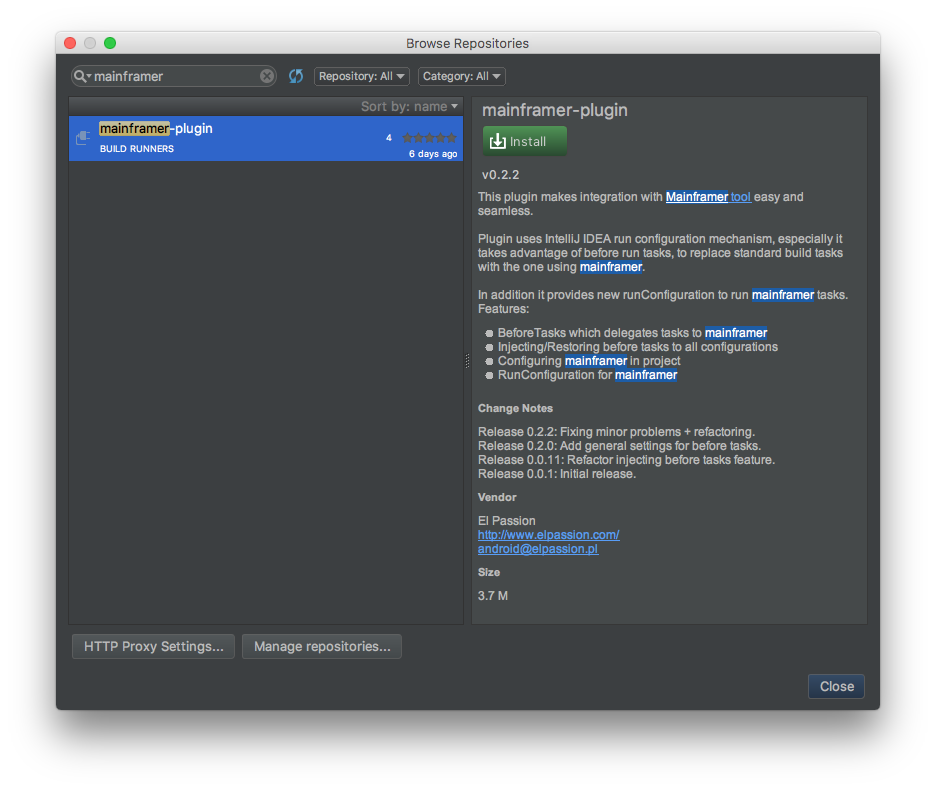
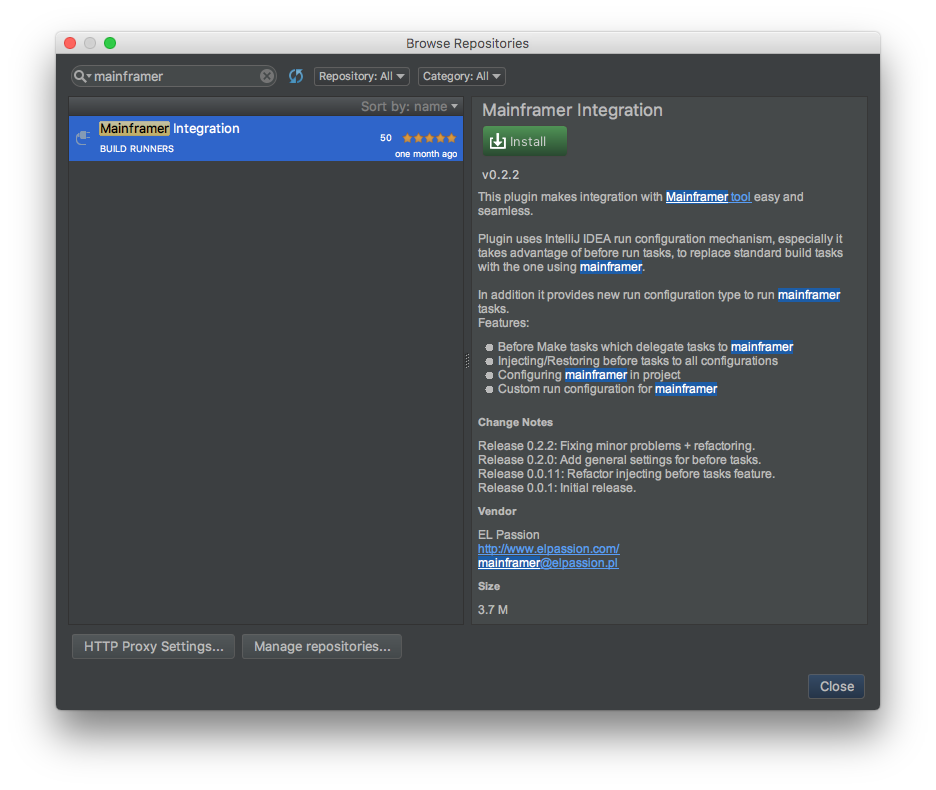
#140 Update readme after plugin rename

diff --git a/README.md b/README.md
@@ -1,4 +1,4 @@
-# mainframer-intellij-plugin [![Build Status](https://travis-ci.org/elpassion/mainframer-intellij-plugin.svg?branch=develop)](https://travis-ci.org/elpassion/mainframer-intellij-plugin) [![Stories in Ready](https://badge.waffle.io/elpassion/mainframer-intelij-plugin.svg?label=ready&title=Ready)](http://waffle.io/elpassion/mainframer-intelij-plugin) [![Stories in progress](https://badge.waffle.io/elpassion/mainframer-intelij-plugin.svg?label=in%20progress&title=In%20Progress)](http://waffle.io/elpassion/mainframer-intelij-plugin) [![Stories in CR](https://badge.waffle.io/elpassion/mainframer-intelij-plugin.svg?label=cr&title=CR)](http://waffle.io/elpassion/mainframer-intelij-plugin)
+# Mainframer Integration [![Build Status](https://travis-ci.org/elpassion/mainframer-intellij-plugin.svg?branch=develop)](https://travis-ci.org/elpassion/mainframer-intellij-plugin) [![Stories in Ready](https://badge.waffle.io/elpassion/mainframer-intelij-plugin.svg?label=ready&title=Ready)](http://waffle.io/elpassion/mainframer-intelij-plugin) [![Stories in progress](https://badge.waffle.io/elpassion/mainframer-intelij-plugin.svg?label=in%20progress&title=In%20Progress)](http://waffle.io/elpassion/mainframer-intelij-plugin) [![Stories in CR](https://badge.waffle.io/elpassion/mainframer-intelij-plugin.svg?label=cr&title=CR)](http://waffle.io/elpassion/mainframer-intelij-plugin)
 An IntelliJ IDEA plugin for [Mainframer](https://github.com/gojuno/mainframer).
 
 About
@@ -16,31 +16,31 @@ Installation
 ------------
 
 1. Open plugins window (with proper action or through *Preferences > Plugins*).
-2. Find **mainframer-plugin** in JetBrains plugins repository.
+2. Find **Mainframer Integration** in JetBrains plugins repository.
 3. Install plugin and restart IDE to apply changes.
 
 **Alternative way:**
 
-If you want to install a specific version of the plugin visit [mainframer-plugin website](https://plugins.jetbrains.com/idea/plugin/9447-mainframer-plugin), download zip file and click *Install plugin from disk...* providing path to it.
+If you want to install a specific version of the plugin visit [Mainframer Integration website](https://plugins.jetbrains.com/plugin/9447-mainframer-integration), download zip file and click *Install plugin from disk...* providing path to it.
 
 ![](readme/plugins.png)
 
 **:warning: Nightly builds:**
 
-If you prefer to follow latest features of **mainframer-plugin** (being under development), you can switch to nightly channel. However, keep in mind that these versions are not stable so you can encounter some unexpected bugs. To make a switch follow these steps: 
+If you prefer to follow latest features of **Mainframer Integration** plugin (being under development), you can switch to nightly channel. However, keep in mind that these versions are not stable so you can encounter some unexpected bugs. To make a switch follow these steps: 
 
 1. Inside plugins window click *Browse repositories...*
 2. In the next window click *Manage repositories...*
 3. Click :heavy_plus_sign: icon.
 4. Paste a repository URL: `https://plugins.jetbrains.com/plugins/nightly/9447`
-5. Confirm and browse **mainframer-plugin** again to install nightly version.
+5. Confirm and browse **Mainframer Integration** again to install nightly version.
 
 When you decide to return to stable channel simply delete provided repository URL.
 
 Setup
 -----
 
-Before you can start using **mainframer-plugin** you must configure your [remote machine](https://github.com/gojuno/mainframer/blob/development/docs/SETUP_REMOTE.md) and [local machine](https://github.com/gojuno/mainframer/blob/development/docs/SETUP_LOCAL.md) (omitting last *Configuration* section, because the plugin will do it for you).
+Before you can start using **Mainframer Integration** plugin you must configure your [remote machine](https://github.com/gojuno/mainframer/blob/development/docs/SETUP_REMOTE.md) and [local machine](https://github.com/gojuno/mainframer/blob/development/docs/SETUP_LOCAL.md) (omitting last *Configuration* section, because the plugin will do it for you).
 
 Usage
 -----
@@ -71,7 +71,7 @@ Selecting a checkbox at the bottom of the dialog indicates that you want to over
 
 ### Run configurations
 
-You can use **mainframer-plugin** either to inject predefined *before launch* tasks or to create a custom run configuration. In case to add new mainframer configuration open run configurations dialog, click add button and select proper configuration type as below:
+You can use **Mainframer Integration** plugin either to inject predefined *before launch* tasks or to create a custom run configuration. In case to add new mainframer configuration open run configurations dialog, click add button and select proper configuration type as below:
 
 ![](readme/add_new_configuration.png)
 
